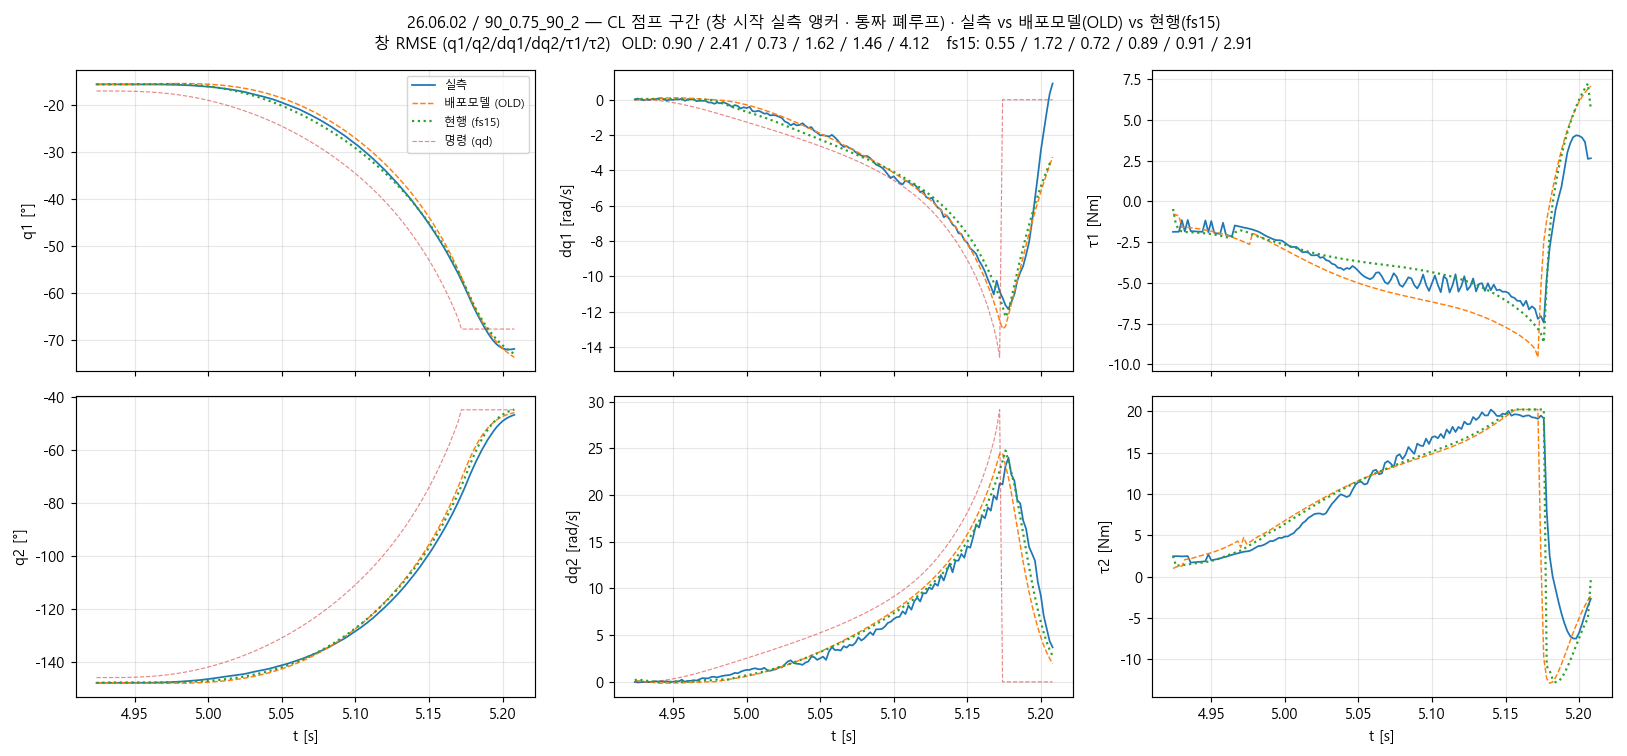
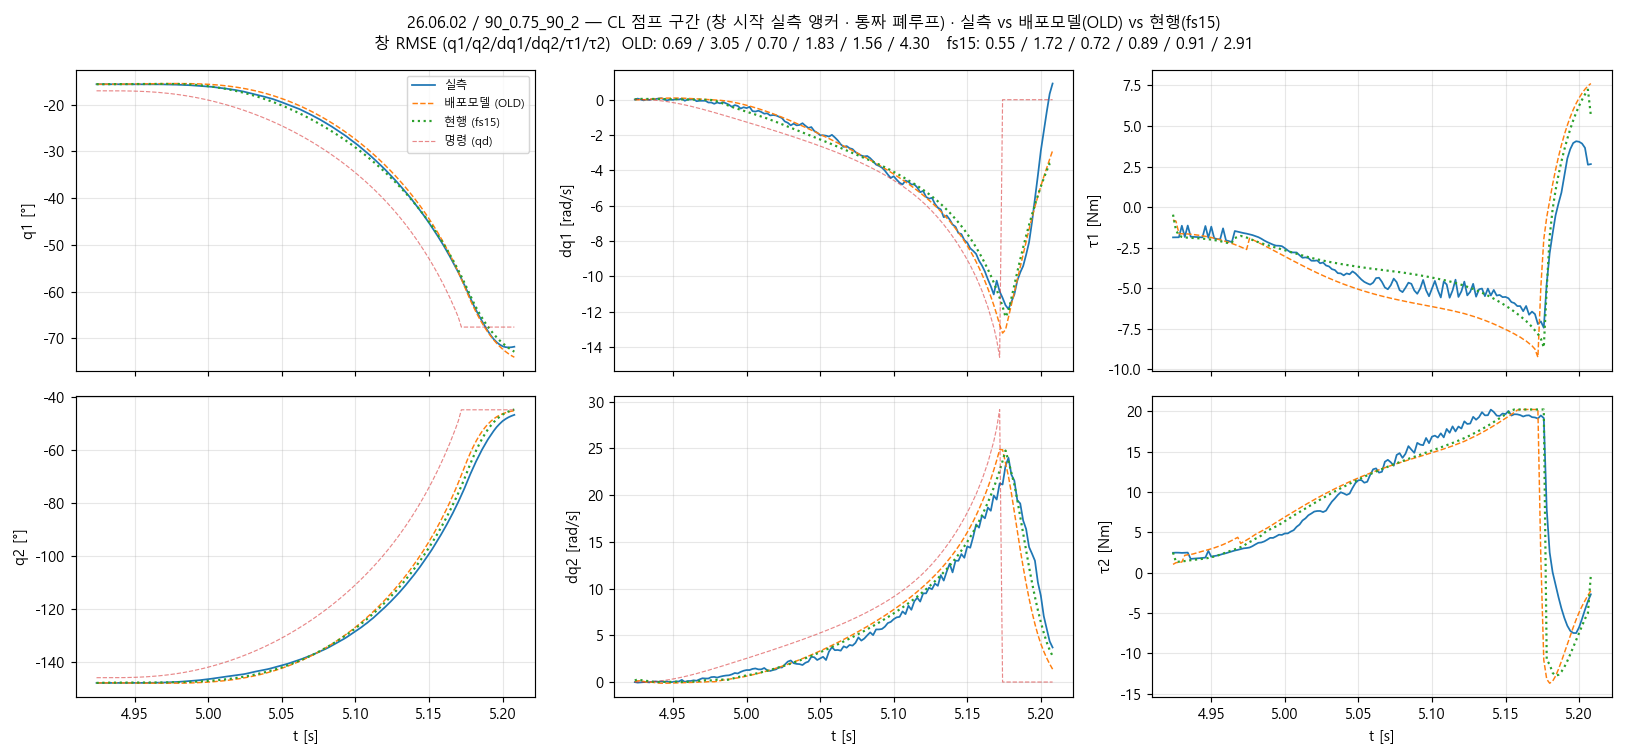
P18: 세션 α 게인 의존 복원 (전 날짜 보간) — OLD 공정 강화 (0424 q1 1.76→1.29, 0602 q1 역전), 정직 기록
Claude-Session: https://claude.ai/code/session_018tXRZDWy9RG1Z1qWD21UNo

diff --git a/code/goal23_fullspan/fs_compare_plot.py b/code/goal23_fullspan/fs_compare_plot.py
@@ -99,8 +99,7 @@ def cl_pair(d, seg, g, sess):
     init = (float(d["q1"][i0]), float(d["q2"][i0]), float(d["dq1"][i0]), float(d["dq2"][i0]),
             float(d["raw1"][i0]), float(d["raw2"][i0]))
     qd = (d["qd1"][m], d["qd2"][m], d["dqd1"][m], d["dqd2"][m])
-    sess_al = FMET.ALPH_SESS.get(sess)
-    alphas = tuple(sess_al) if sess_al else (alpha_of(TH, g[0]), 0.20, alpha_of(TK, g[2]), 0.20)
+    alphas = alphas_for(sess, g)
     Lo = cl_old_meas(FMET.tw0, t, *qd, tuple(g), alphas, t_end, init)
     ft = FR.fs_twin()
     SP = FR._sess_params()
@@ -117,6 +116,38 @@ def cl_pair(d, seg, g, sess):
     meas = {k: d[k][m] for k, _ in CH}
     cmd = [d["qd1"][m], d["qd2"][m], d["dqd1"][m], d["dqd2"][m], None, None]   # exp5 형식: 명령 병기
     return tt[m], meas, old, fs, np.ones(m.sum(), bool), cmd
+
+
+
+_KPREF = {}
+
+
+def _kp_ref(sess):
+    """세션 적합 α의 '실효 기준 게인' = 그 세션 trial 게인의 기하평균 (hip, knee)."""
+    if sess not in _KPREF:
+        k1 = [g[0] for s_, p_, g, c_, h_ in FD.registry() if s_ == sess and g]
+        k2 = [g[2] for s_, p_, g, c_, h_ in FD.registry() if s_ == sess and g]
+        _KPREF[sess] = (float(np.exp(np.mean(np.log(k1)))) if k1 else None,
+                        float(np.exp(np.mean(np.log(k2)))) if k2 else None)
+    return _KPREF[sess]
+
+
+def alphas_for(sess, g):
+    """OLD α 결정 (P18, 사용자 지시 '다른 날도 제대로 보간').
+    ①세션 적합 α가 있는 날(0424/0602/0421): 세션 수준은 보존하되 **게인 의존을 복원** —
+      α(kp) = α_sess × alpha_of(표, kp) / alpha_of(표, kp_ref), kp_ref = 세션 게인 기하평균.
+      (구: 세션 α 하나를 kp 60~500 전 trial에 동일 적용 → 저게인 과소·고게인 과대)
+    ②없는 날(7월 등): 표 log-kp 보간 (P17).
+    kd 계수는 원 규약(0.20 또는 세션 적합) 유지."""
+    sess_al = FMET.ALPH_SESS.get(sess)
+    if not sess_al:
+        return (alpha_of(TH, g[0]), 0.20, alpha_of(TK, g[2]), 0.20)
+    r1, r2 = _kp_ref(sess)
+    f1 = alpha_of(TH, g[0]) / alpha_of(TH, r1) if r1 else 1.0
+    f2 = alpha_of(TK, g[2]) / alpha_of(TK, r2) if r2 else 1.0
+    # α ≤ 1 (전달 스케일의 물리 상한 — 복원 스케일링이 1을 넘으면 클립)
+    return (float(min(sess_al[0] * f1, 1.0)), float(sess_al[1]),
+            float(min(sess_al[2] * f2, 1.0)), float(sess_al[3]))
 
 
 def cl_old_meas(tw, tg, qd1g, qd2g, dqd1g, dqd2g, gains, alphas, t_end, init_meas):
@@ -201,8 +232,7 @@ def golden_mirror(d, seg, g, sess):
     sl = slice(i0, None)
     t = d["t"][sl] - d["t"][i0]
     t_end = seg["t_lo"] - d["t"][i0]
-    sess_al = FMET.ALPH_SESS.get(sess)
-    alphas = tuple(sess_al) if sess_al else (alpha_of(TH, g[0]), 0.20, alpha_of(TK, g[2]), 0.20)
+    alphas = alphas_for(sess, g)
     args = (t, d["qd1"][sl], d["qd2"][sl], d["dqd1"][sl], d["dqd2"][sl])
     A_ = TW.rollout_cl(FMET.tw0, *args, tuple(g), alphas=alphas, t_end=t_end, t_after=0.05)
     B_ = cl_old_meas(FMET.tw0, *args, tuple(g), alphas, t_end, None)

diff --git a/code/goal23_fullspan/fs_cvt_plot.py b/code/goal23_fullspan/fs_cvt_plot.py
@@ -72,7 +72,8 @@ def cl5q(model, tw, cc, d, seg, g, win=None):
         dqd1g, dqd2g = d["dqd1"][i0:], d["dqd2"][i0:]
         t_end = seg["t_lo"] - d["t"][i0]
     kp1, kd1 = g[0], g[1]
-    kp2 = g[2] * TKD.get(g[2], 0.656); kd2 = g[3] * 0.20
+    import fs_compare_plot as _CP                      # P18: 표 밖 게인 log-kp 보간 (fallback 0.656 금지)
+    kp2 = g[2] * _CP.alpha_of(TKD, g[2]); kd2 = g[3] * 0.20
     md = mjm.MjData(model)
     _a1 = -(init[0] if win is not None else float(qd1g[0])) - np.pi / 2
     _a2 = -(init[1] if win is not None else float(qd2g[0]))

diff --git a/code/goal23_fullspan/_compare/README.md b/code/goal23_fullspan/_compare/README.md
@@ -6,9 +6,9 @@
 
 | 모드 | 세션 | trial | q1 | q2 | dq1 | dq2 | τ1 | τ2 |
 |---|---|---|---|---|---|---|---|---|
-| CL | 26.04.21 | 6 | 3.81→1.01 | 11.45→1.09 | 1.59→0.53 | 4.69→0.59 | 2.74→0.96 | 5.97→1.33 |
-| CL | 26.04.24 | 9 | 1.76→0.86 | 1.47→1.14 | 0.74→0.64 | 1.53→0.93 | 2.01→1.33 | 3.16→3.19 |
-| CL | 26.06.02 | 6 | 1.02→0.73 | 2.06→1.48 | 0.69→0.68 | 2.04→1.00 | 2.07→1.35 | 4.85→3.46 |
+| CL | 26.04.21 | 6 | 3.94→1.01 | 11.66→1.09 | 1.61→0.53 | 4.75→0.59 | 2.72→0.96 | 6.02→1.33 |
+| CL | 26.04.24 | 9 | 1.29→0.86 | 1.07→1.14 | 0.67→0.64 | 1.27→0.93 | 1.98→1.33 | 3.13→3.19 |
+| CL | 26.06.02 | 6 | 0.68→0.73 | 2.72→1.48 | 0.66→0.68 | 2.20→1.00 | 2.01→1.35 | 4.89→3.46 |
 | CL | 26.07.22 | 5 | 6.37→1.19 | 3.50→3.62 | 2.93→1.09 | 2.69→2.13 | 2.40→2.31 | 3.83→5.24 |
 | CL | 26.07.23 | 3 | 7.49→2.76 | 3.33→1.45 | 3.03→1.40 | 2.44→0.98 | 3.34→2.85 | 3.40→3.39 |
 | CL | 26.07.24 | 3 | 4.48→1.54 | 1.92→0.96 | 3.04→1.00 | 1.13→0.62 | 3.58→2.44 | 2.60→3.74 |
